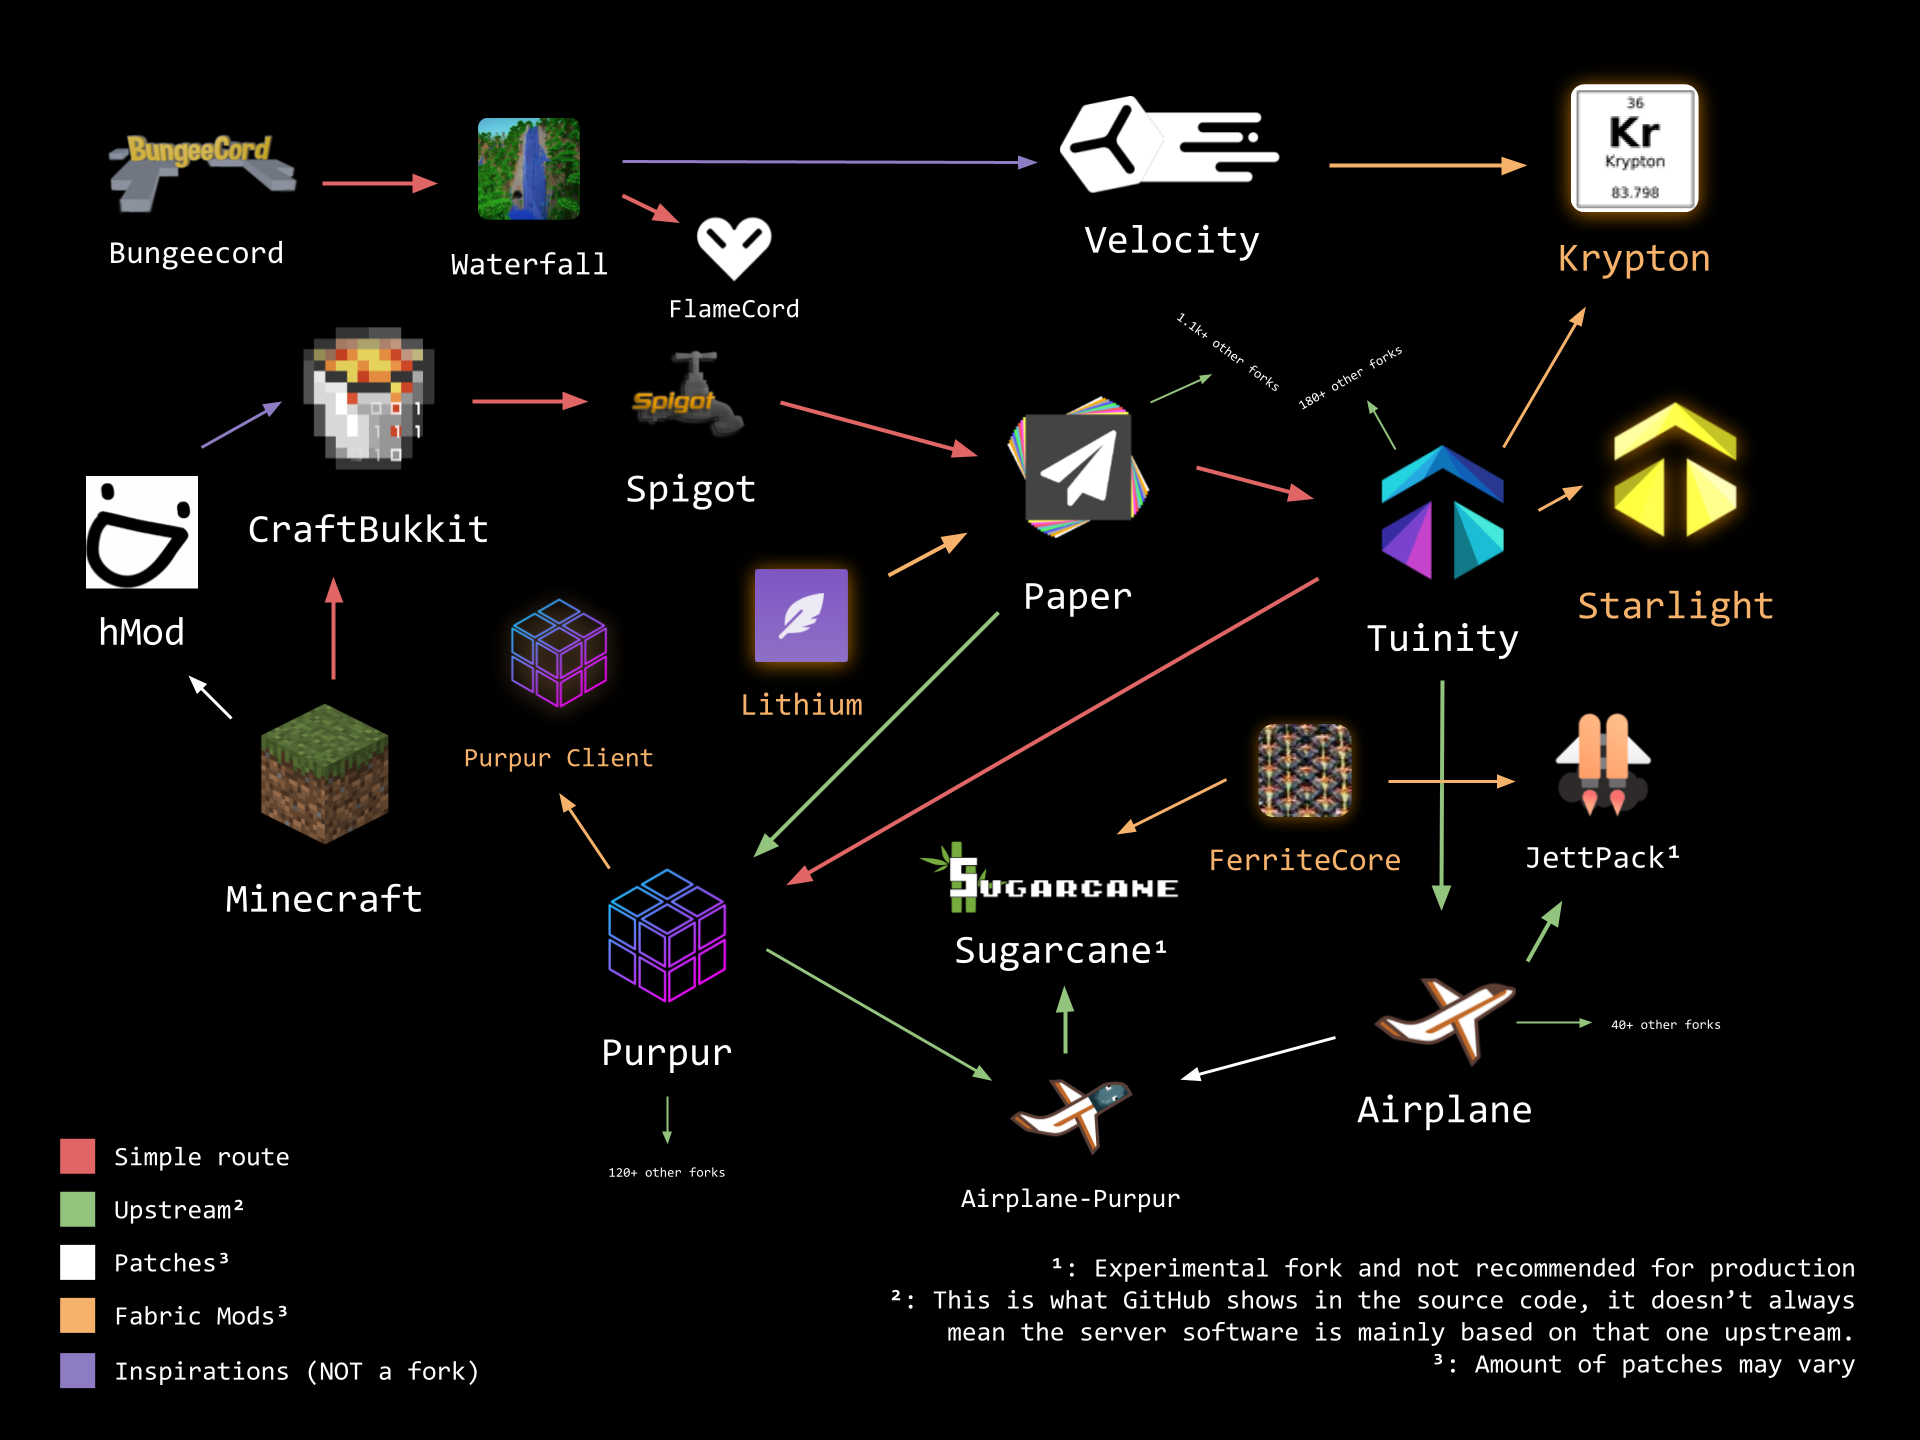
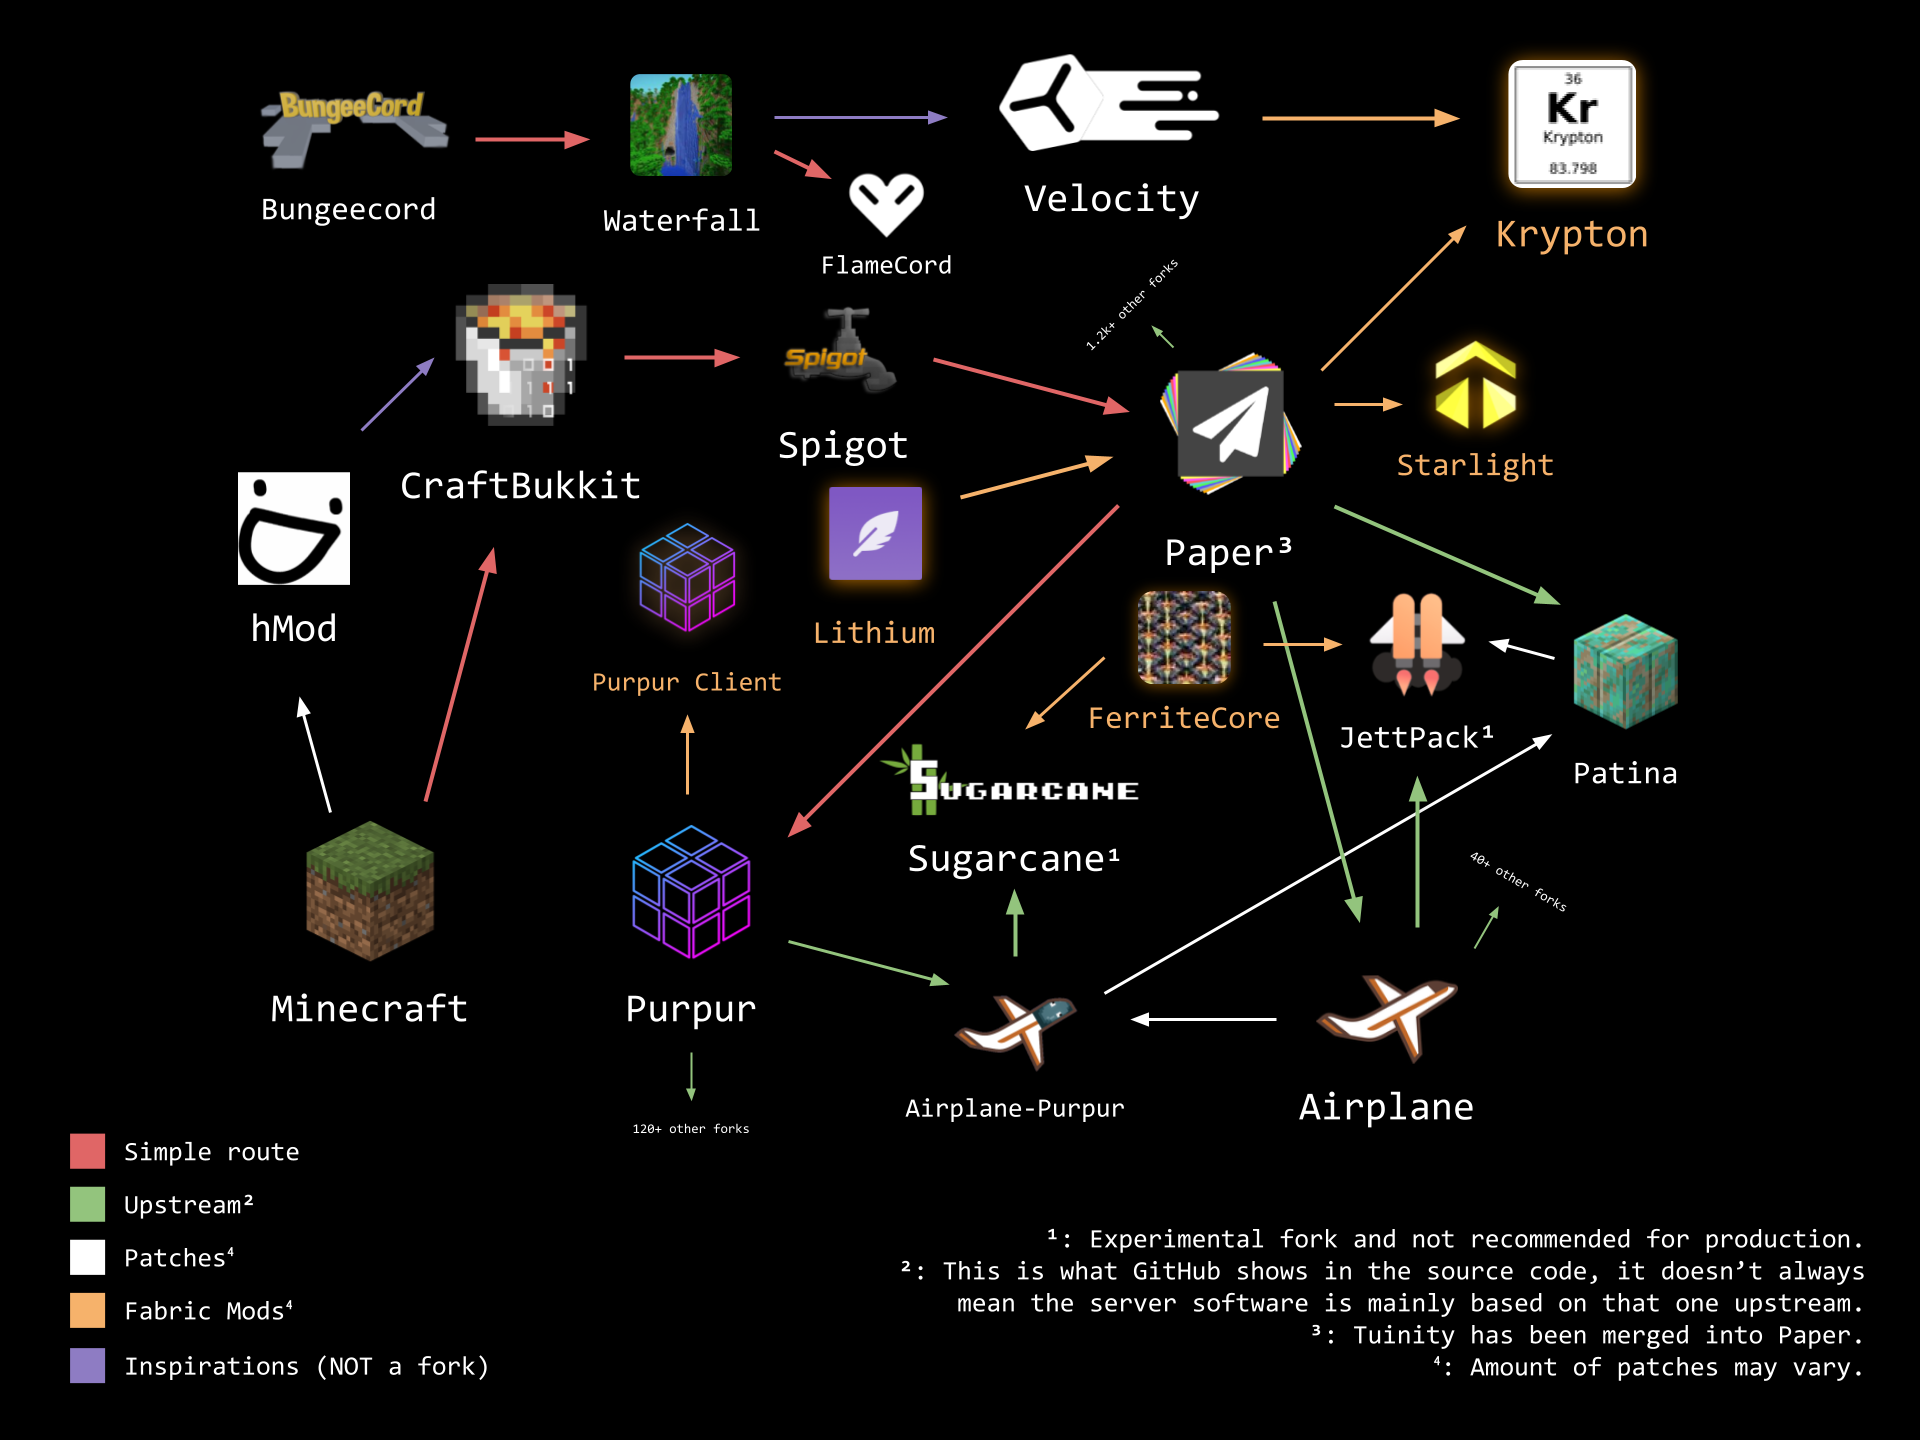
tuinity merged into paper, added patina

diff --git a/index.html b/index.html
@@ -1,7 +1,7 @@
 <head>
     <title>Fork Graph</title>
     <meta content="https://forks.smhsmh.club/img.png#v=1" property="og:image"/>
-    <meta content="Last updated August 8 2021" property="og:title"/>
+    <meta content="Last updated August 17 2021" property="og:title"/>
     <meta content="[Click here to propose any changes](https://forks.smhsmh.club/drawing)" property="og:description"/>
     <meta name="twitter:card" content="summary_large_image"/>
     <img src="https://forks.smhsmh.club/img.png#v=1" alt="https://forks.smhsmh.club/img.png#v=1">
